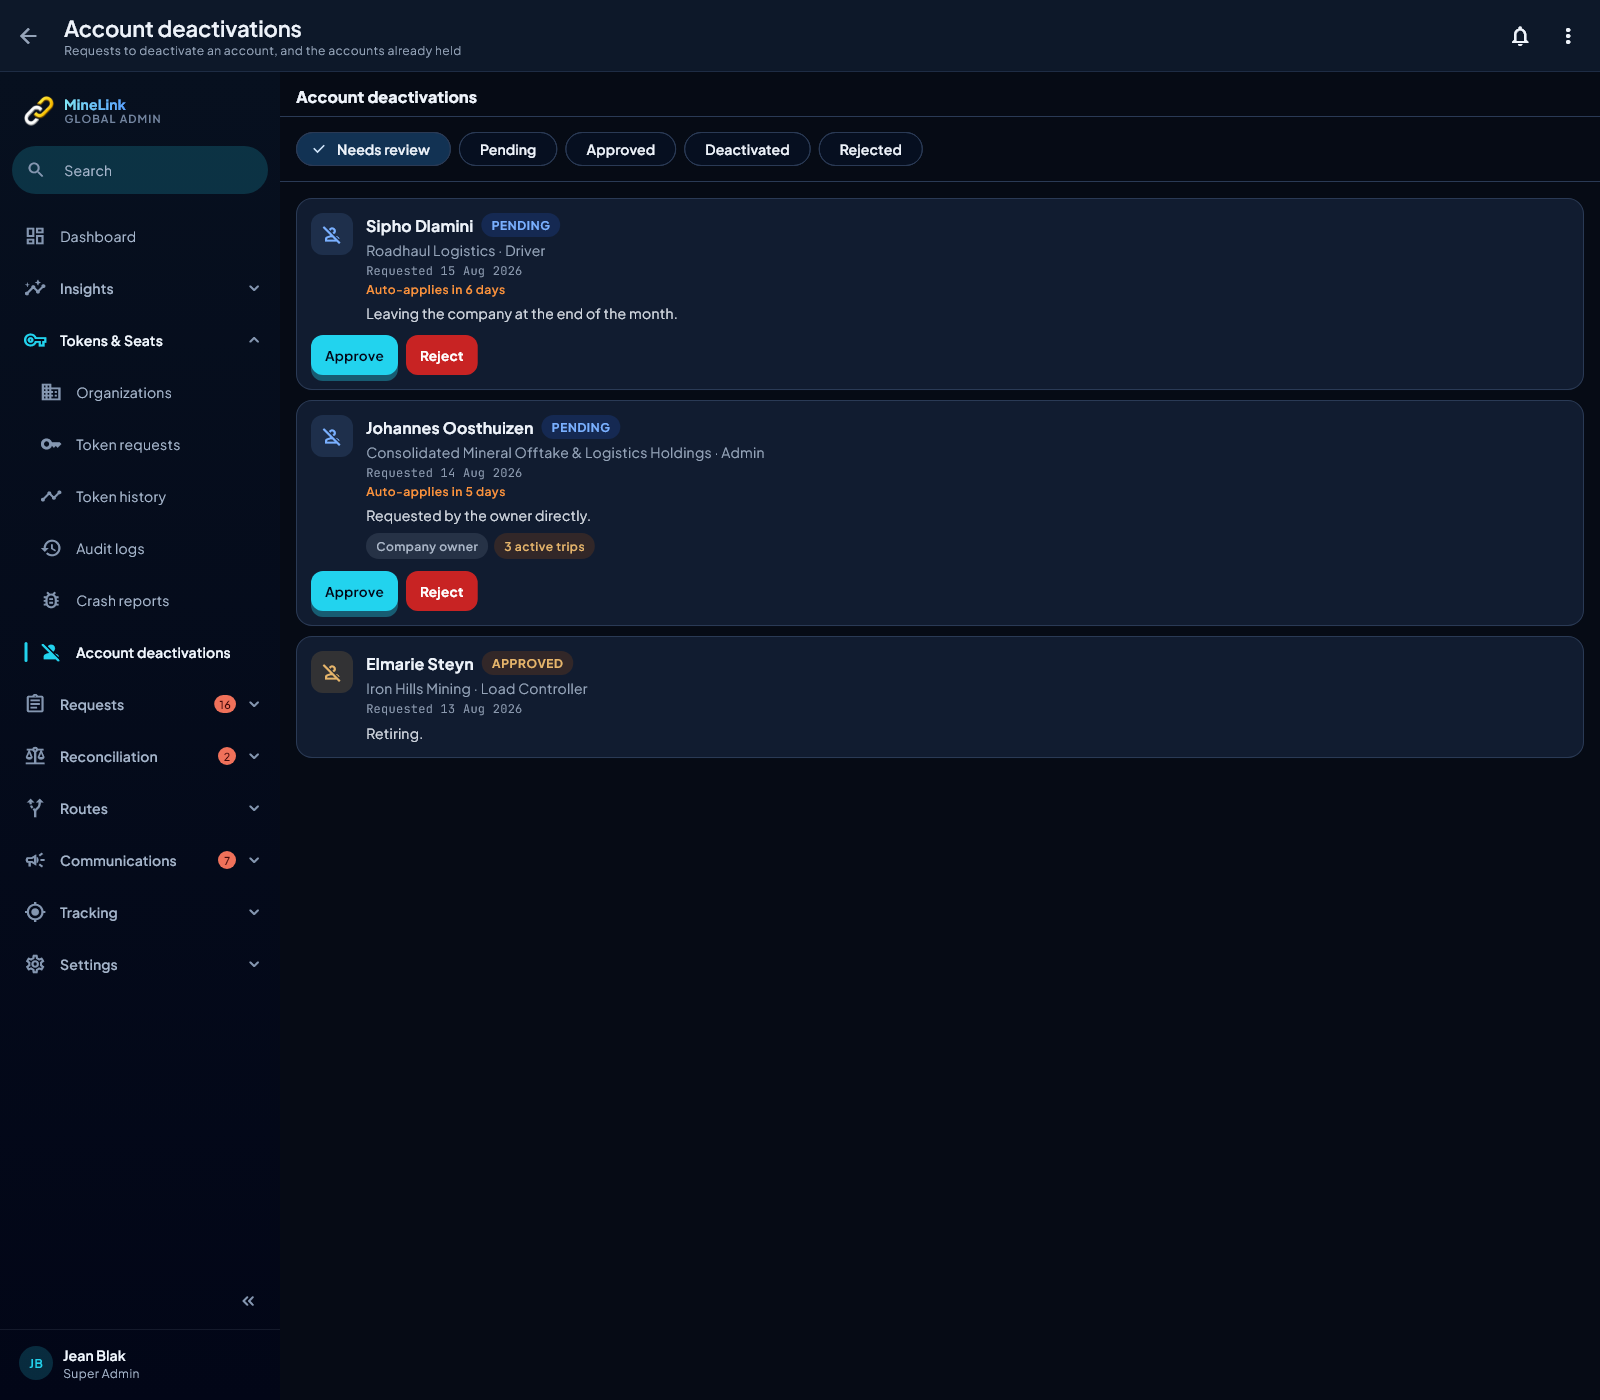
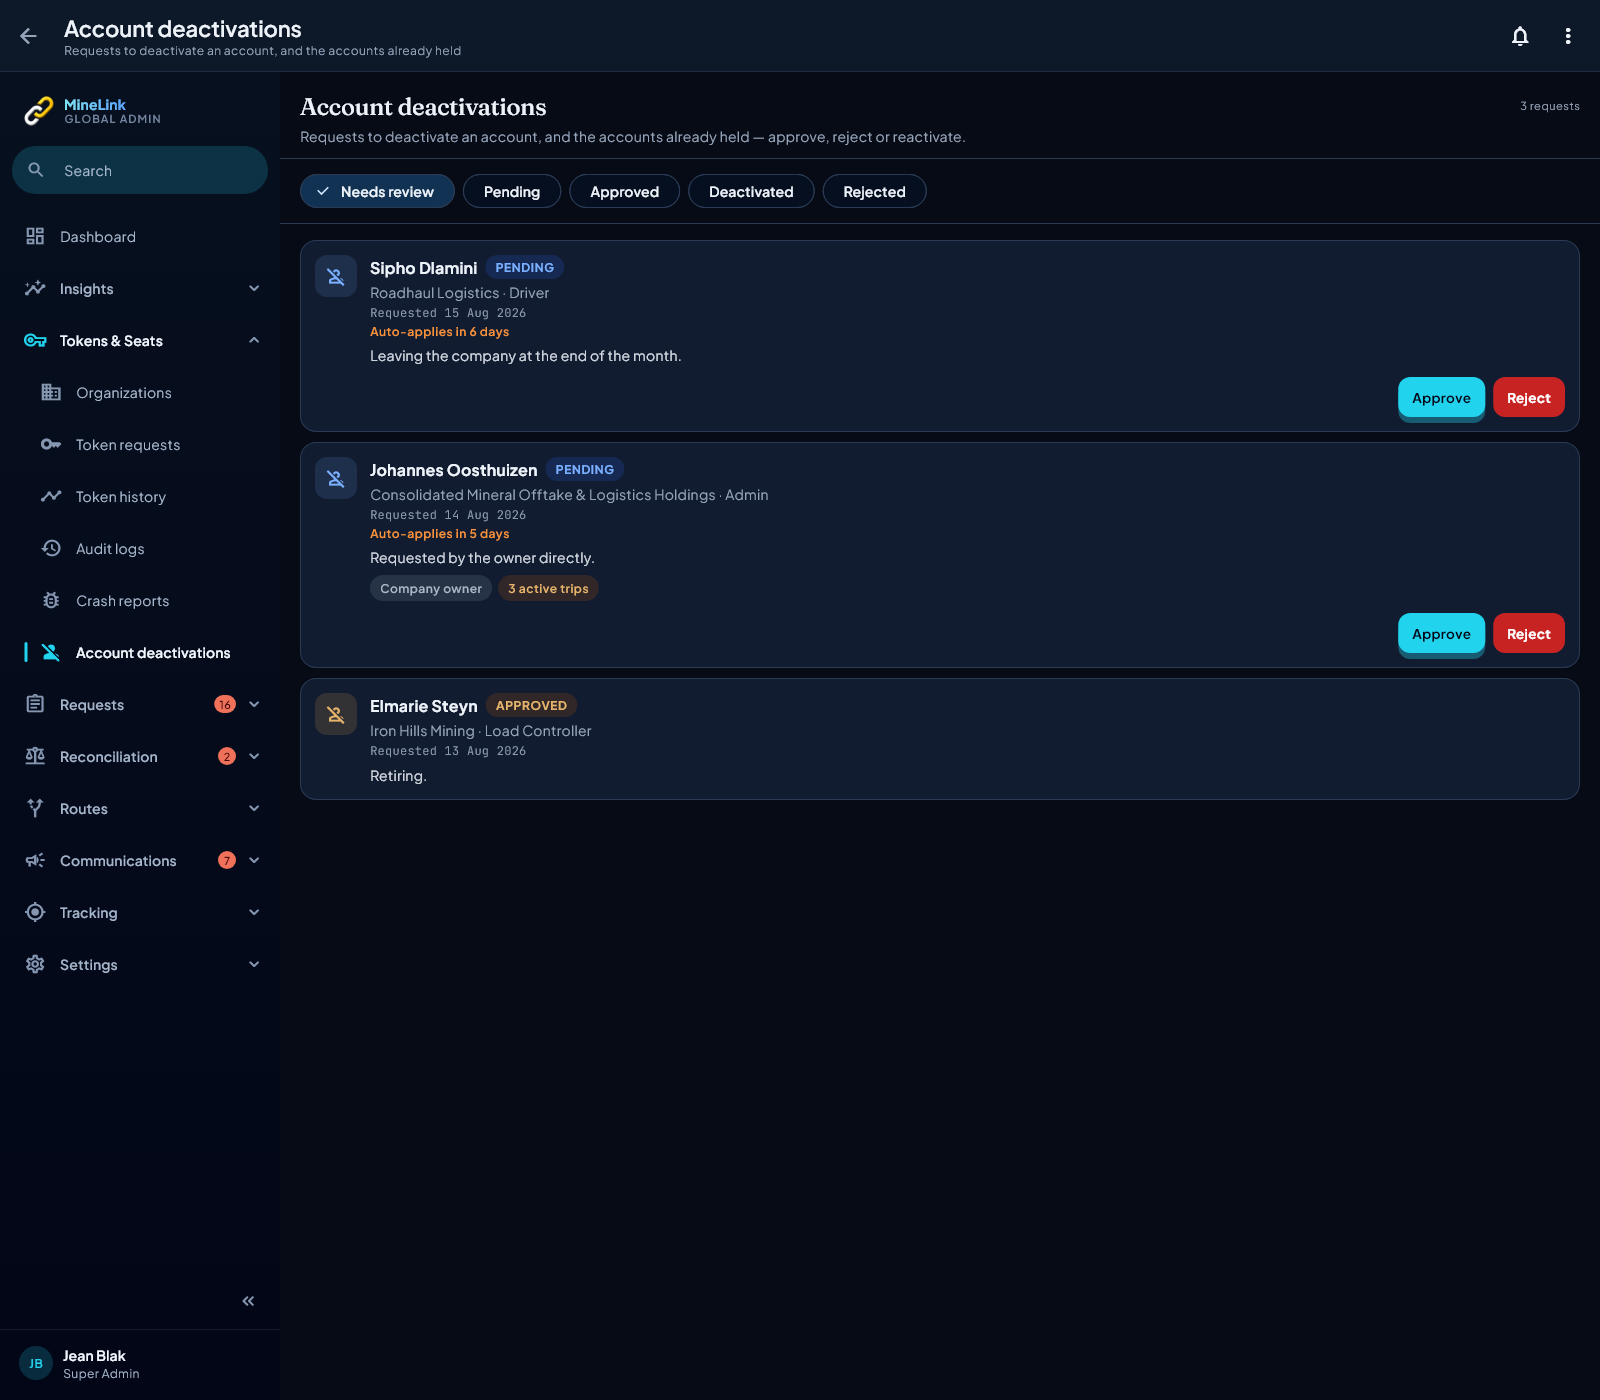
fix(console): account deactivations opens in the shared page header, with its actions on the right
Phase 3 pass, 2026-08-23. A hand-rolled 16px sans title (the same drift as
platform users, audit logs and crash reports) → MlPageHeader with the
request count as meta. And Approve / Reject hung at the card's far left
under the icon well, where the reference (§4: notice bar, data rows) and
the request-review card beside this one put a card's actions on the right
— a Wrap with `alignment: end` inside a full-width SizedBox (§10.4: a Wrap
sizes to its content, so `end` had nothing to align within).

Pinned in console_tail_test.dart (header in MlTokens.fontSerif; the last
action's right edge is the card's content edge ±1.5); sabotaged by
stashing the screen: fails. Renders regenerated, looked at on desktop and
phone.

Changed region(s): [[0.1875, 0.0614, 1.0, 0.5836]]

diff --git a/lib/features/super_admin/screens/account_deactivations_screen.dart b/lib/features/super_admin/screens/account_deactivations_screen.dart
@@ -267,25 +267,22 @@ class _Body extends StatelessWidget {
 
   @override
   Widget build(BuildContext context) {
-    final semantic = MlSemantic.of(context);
-
     return Column(
       crossAxisAlignment: CrossAxisAlignment.stretch,
       children: [
+        // The shared page header, not a hand-rolled 16px sans title — every
+        // other console screen opens in the Fraunces display face through
+        // MlPageHeader, with a description and a count on the right. Found
+        // 2026-08-23 in the Phase 3 pass.
         Padding(
-          padding: const EdgeInsets.fromLTRB(16, 12, 16, 8),
-          child: Row(
-            children: [
-              Flexible(
-                child: Text(
-                  'Account deactivations',
-                  style: context.mlText.titleMedium.copyWith(
-                    color: semantic.textStrong,
-                    fontWeight: FontWeight.w800,
-                  ),
-                ),
-              ),
-            ],
+          padding: const EdgeInsets.fromLTRB(20, 18, 20, 12),
+          child: MlPageHeader(
+            title: 'Account deactivations',
+            description:
+                'Requests to deactivate an account, and the accounts already '
+                'held — approve, reject or reactivate.',
+            meta: mlCount(rows.length, 'request'),
+            padding: EdgeInsets.zero,
           ),
         ),
         const Divider(height: 1),
@@ -293,7 +290,7 @@ class _Body extends StatelessWidget {
           width: double.infinity,
           child: SingleChildScrollView(
             scrollDirection: Axis.horizontal,
-            padding: const EdgeInsets.symmetric(horizontal: 16, vertical: 8),
+            padding: const EdgeInsets.symmetric(horizontal: 20, vertical: 8),
             child: Row(
               children: [
                 ChoiceChip(
@@ -338,7 +335,7 @@ class _Body extends StatelessWidget {
                   message: 'No account deactivation requests in this view.',
                 )
               : ListView.separated(
-                  padding: const EdgeInsets.all(16),
+                  padding: const EdgeInsets.fromLTRB(20, 16, 20, 16),
                   itemCount: rows.length,
                   separatorBuilder: (_, __) => const SizedBox(height: 10),
                   itemBuilder: (context, i) {
@@ -563,7 +560,21 @@ class _RequestCard extends StatelessWidget {
           ),
           if (actions.isNotEmpty) ...[
             const SizedBox(height: 12),
-            Wrap(spacing: 8, runSpacing: 8, children: actions),
+            // Right-aligned, as the reference places a card's actions
+            // (docs/design-reference.md §4: notice bar, data rows) and as
+            // the request-review card beside this one does. They used to
+            // hang at the card's far left, under the icon well. The Wrap
+            // must claim the row first (CLAUDE.md §10.4) or `end` has no
+            // free space to align within.
+            SizedBox(
+              width: double.infinity,
+              child: Wrap(
+                alignment: WrapAlignment.end,
+                spacing: 8,
+                runSpacing: 8,
+                children: actions,
+              ),
+            ),
           ],
         ],
       ),

diff --git a/test/features/super_admin/console_tail_test.dart b/test/features/super_admin/console_tail_test.dart
@@ -229,6 +229,33 @@ void main() {
     expect(find.textContaining('Load Controller'), findsWidgets);
   });
 
+  testWidgets('and the deactivations queue opens in the shared page header, '
+      'with its actions on the right', (tester) async {
+    // Two drifts found 2026-08-23 in the Phase 3 pass: a hand-rolled 16px
+    // sans title (every other console screen opens through MlPageHeader),
+    // and Approve / Reject hanging at the card's far left under the icon
+    // well, where the reference (and the request-review card) put a card's
+    // actions on the right.
+    await pump(tester, const AccountDeactivationsScreen(),
+        width: 1600, height: 1600);
+    final header = find.byType(MlPageHeader);
+    expect(header, findsOneWidget);
+    expect(
+        tester
+            .widget<Text>(find.descendant(
+                of: header, matching: find.text('Account deactivations')))
+            .style
+            ?.fontFamily,
+        MlTokens.fontSerif);
+    final card = find.ancestor(
+        of: find.text('Sipho Dlamini'), matching: find.byType(MlCard));
+    final cardRect = tester.getRect(card.first);
+    final reject = tester.getRect(find.widgetWithText(MlButton, 'Reject').first);
+    // The last control sits inside the card's 14px padding, flush right.
+    expect(reject.right, closeTo(cardRect.right - 14, 1.5),
+        reason: 'the action row is not right-aligned inside its card');
+  });
+
   testWidgets('platform users name the role in English', (tester) async {
     await pump(tester, const PlatformUsersScreen(), height: 2600);
     expectNoWireVocabulary(tester, 'the platform users list');
